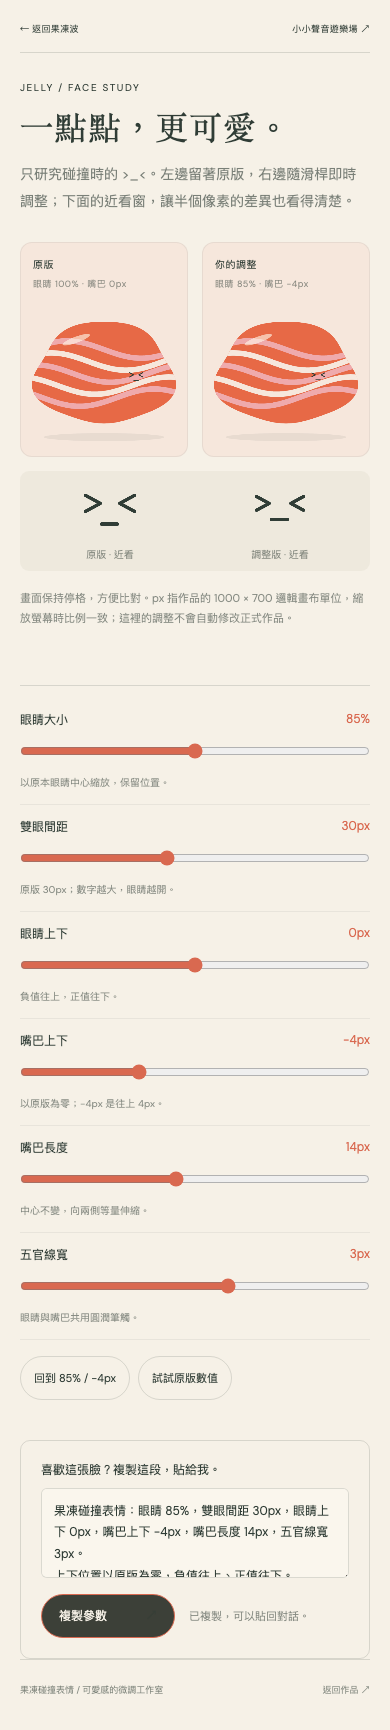
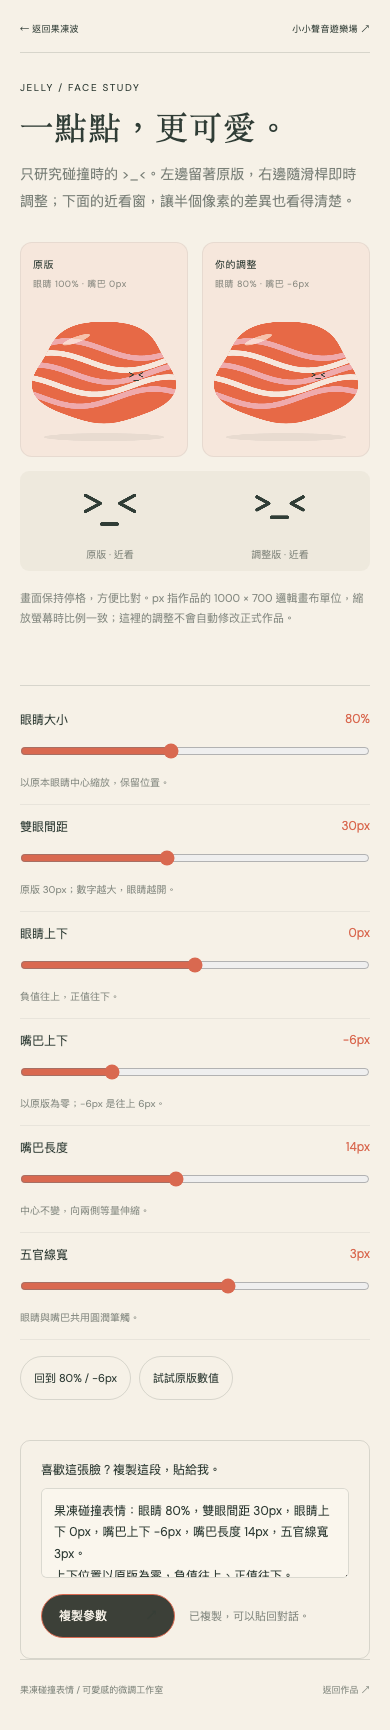
fix(sound): tune jelly collision eyes and mouth to chosen values

diff --git a/sound/jelly-face-lab.html b/sound/jelly-face-lab.html
@@ -9,16 +9,16 @@
 .gesture-tools .face-lab-link{display:inline-flex;align-items:center;min-height:44px;padding:10px 17px;border:1px solid var(--line);border-radius:30px;font-size:12px}.face-lab-link:hover{background:#303d3609}
 
 .lab{max-width:1220px}.intro{margin:42px 0 28px}.intro h1{margin:12px 0}.intro p{max-width:650px;line-height:1.9;color:#303d36a0}.lab-grid{display:grid;grid-template-columns:minmax(0,1fr) 300px;gap:32px;align-items:start}.portraits{display:grid;grid-template-columns:1fr 1fr;gap:14px}.portrait{margin:0;background:#f6e7dc;border:1px solid #303d3612;border-radius:12px;overflow:hidden}.portrait figcaption{padding:18px 20px 0;display:flex;justify-content:space-between;gap:10px;font-size:11px;letter-spacing:.05em}.portrait canvas{width:100%;height:auto;aspect-ratio:1/1}.portrait small{font-size:10px;opacity:.55}.zoom{background:#eee9dd;border-radius:9px;margin-top:14px;display:grid;grid-template-columns:1fr 1fr;gap:14px;padding:14px}.zoom canvas{height:auto;width:100%;aspect-ratio:56/23}.zoom p{text-align:center;font-size:10px;margin:0;color:#303d3690}.controls{border-top:1px solid var(--line);padding-top:12px}.control{padding:13px 0;border-bottom:1px solid #303d3612}.control label{display:flex;justify-content:space-between;gap:10px;font-size:12px}.control output{font-variant-numeric:tabular-nums;color:#d96950}.control input{width:100%;accent-color:#d96950;min-height:34px;margin:6px 0 0}.control small{font-size:10px;line-height:1.6;color:#303d3690}.presets{display:flex;flex-wrap:wrap;gap:8px;margin:16px 0}.presets button{font-size:11px;padding:8px 13px}.values{margin:24px 0 0;padding:20px;border:1px solid var(--line);border-radius:10px}.values label{display:block;font-size:12px;margin-bottom:10px}.values textarea{width:100%;min-height:90px;resize:vertical;background:#faf6ed;border:1px solid var(--line);border-radius:6px;color:var(--ink);padding:12px;font:12px/1.8 DM,"PingFang TC",sans-serif}.copy-row{display:flex;align-items:center;gap:14px;margin-top:12px}.copy-row span{font-size:11px;color:#303d3690}.lab-note{font-size:11px;line-height:1.8;color:#303d3690;margin:18px 0 24px}@media(max-width:850px){.lab-grid{grid-template-columns:1fr}.controls{display:grid;grid-template-columns:1fr 1fr;gap:0 20px}.presets{grid-column:1/-1}.intro{margin-top:28px}.portrait figcaption{padding:14px 12px 0;font-size:10px}.portrait small{font-size:9px}.zoom{padding:10px;gap:10px}}@media(max-width:420px){.controls{grid-template-columns:1fr}.portrait figcaption{display:block}.portrait small{display:block;margin-top:6px}.intro h1{font-size:33px}}
-</style></head><body><div class="shell lab"><header class="mast"><a href="jelly-wave.html">← 返回果凍波</a><a href="index.html">小小聲音遊樂場 ↗</a></header><main><div class="intro"><div class="eyebrow">JELLY / FACE STUDY</div><h1>一點點，更可愛。</h1><p>只研究碰撞時的 &gt;_&lt;。左邊留著原版，右邊隨滑桿即時調整；下面的近看窗，讓半個像素的差異也看得清楚。</p></div><div class="lab-grid"><section aria-label="表情比較"><div class="portraits"><figure class="portrait"><figcaption>原版 <small>眼睛 100% · 嘴巴 0px</small></figcaption><canvas id="before" width="560" height="560" aria-label="原版碰撞表情"></canvas></figure><figure class="portrait"><figcaption>你的調整 <small id="preview-label">眼睛 85% · 嘴巴 −4px</small></figcaption><canvas id="after" width="560" height="560" aria-label="調整後的碰撞表情"></canvas></figure></div><div class="zoom"><div><canvas id="before-detail" width="560" height="230" aria-label="原版五官近看"></canvas><p>原版 · 近看</p></div><div><canvas id="after-detail" width="560" height="230" aria-label="調整後五官近看"></canvas><p>調整版 · 近看</p></div></div><p class="lab-note">畫面保持停格，方便比對。px 指作品的 1000 × 700 邏輯畫布單位，縮放螢幕時比例一致；這裡的調整不會自動修改正式作品。</p></section><section class="controls" aria-label="五官參數">
-<div class="control"><label for="eyeScale">眼睛大小 <output id="eyeScale-value"></output></label><input id="eyeScale" type="range" min="50" max="120" step="1" value="85"><small>以原本眼睛中心縮放，保留位置。</small></div>
+</style></head><body><div class="shell lab"><header class="mast"><a href="jelly-wave.html">← 返回果凍波</a><a href="index.html">小小聲音遊樂場 ↗</a></header><main><div class="intro"><div class="eyebrow">JELLY / FACE STUDY</div><h1>一點點，更可愛。</h1><p>只研究碰撞時的 &gt;_&lt;。左邊留著原版，右邊隨滑桿即時調整；下面的近看窗，讓半個像素的差異也看得清楚。</p></div><div class="lab-grid"><section aria-label="表情比較"><div class="portraits"><figure class="portrait"><figcaption>原版 <small>眼睛 100% · 嘴巴 0px</small></figcaption><canvas id="before" width="560" height="560" aria-label="原版碰撞表情"></canvas></figure><figure class="portrait"><figcaption>你的調整 <small id="preview-label">眼睛 80% · 嘴巴 −6px</small></figcaption><canvas id="after" width="560" height="560" aria-label="調整後的碰撞表情"></canvas></figure></div><div class="zoom"><div><canvas id="before-detail" width="560" height="230" aria-label="原版五官近看"></canvas><p>原版 · 近看</p></div><div><canvas id="after-detail" width="560" height="230" aria-label="調整後五官近看"></canvas><p>調整版 · 近看</p></div></div><p class="lab-note">畫面保持停格，方便比對。px 指作品的 1000 × 700 邏輯畫布單位，縮放螢幕時比例一致；這裡的調整不會自動修改正式作品。</p></section><section class="controls" aria-label="五官參數">
+<div class="control"><label for="eyeScale">眼睛大小 <output id="eyeScale-value"></output></label><input id="eyeScale" type="range" min="50" max="120" step="1" value="80"><small>以原本眼睛中心縮放，保留位置。</small></div>
 <div class="control"><label for="eyeGap">雙眼間距 <output id="eyeGap-value"></output></label><input id="eyeGap" type="range" min="20" max="44" step="0.5" value="30"><small>原版 30px；數字越大，眼睛越開。</small></div>
 <div class="control"><label for="eyeY">眼睛上下 <output id="eyeY-value"></output></label><input id="eyeY" type="range" min="-10" max="10" step="0.5" value="0"><small>負值往上，正值往下。</small></div>
-<div class="control"><label for="mouthY">嘴巴上下 <output id="mouthY-value"></output></label><input id="mouthY" type="range" min="-12" max="12" step="0.5" value="-4"><small>以原版為零；−4px 是往上 4px。</small></div>
+<div class="control"><label for="mouthY">嘴巴上下 <output id="mouthY-value"></output></label><input id="mouthY" type="range" min="-12" max="12" step="0.5" value="-6"><small>以原版為零；−6px 是往上 6px。</small></div>
 <div class="control"><label for="mouthWidth">嘴巴長度 <output id="mouthWidth-value"></output></label><input id="mouthWidth" type="range" min="6" max="24" step="0.5" value="14"><small>中心不變，向兩側等量伸縮。</small></div>
 <div class="control"><label for="strokeWidth">五官線寬 <output id="strokeWidth-value"></output></label><input id="strokeWidth" type="range" min="1.5" max="4" step="0.1" value="3"><small>眼睛與嘴巴共用圓潤筆觸。</small></div>
-<div class="presets"><button id="reset">回到 85% / −4px</button><button id="original">試試原版數值</button></div></section></div><section class="values"><label for="values">喜歡這張臉？複製這段，貼給我。</label><textarea id="values" readonly spellcheck="false"></textarea><div class="copy-row"><button id="copy" class="primary">複製參數 <span>↗</span></button><span id="copy-status" role="status">調整完成後再複製。</span></div></section></main><footer><span>果凍碰撞表情 / 可愛感的微調工作室</span><a href="jelly-wave.html">返回作品 ↗</a></footer></div><script>
+<div class="presets"><button id="reset">回到 80% / −6px</button><button id="original">試試原版數值</button></div></section></div><section class="values"><label for="values">喜歡這張臉？複製這段，貼給我。</label><textarea id="values" readonly spellcheck="false"></textarea><div class="copy-row"><button id="copy" class="primary">複製參數 <span>↗</span></button><span id="copy-status" role="status">調整完成後再複製。</span></div></section></main><footer><span>果凍碰撞表情 / 可愛感的微調工作室</span><a href="jelly-wave.html">返回作品 ↗</a></footer></div><script>
 // Eye anchors retain their original centres; size changes around those anchors.
-function drawJellyCollisionFace(ctx,{eyeScale=.85,eyeGap=30,eyeY=0,mouthY=-4,mouthWidth=14,strokeWidth=3}={}){
+function drawJellyCollisionFace(ctx,{eyeScale=.80,eyeGap=30,eyeY=0,mouthY=-6,mouthWidth=14,strokeWidth=3}={}){
  ctx.save();ctx.strokeStyle='#303d36';ctx.lineWidth=strokeWidth;ctx.lineCap='round';ctx.lineJoin='round';
  const left=104.5-eyeGap/2,right=104.5+eyeGap/2;
  for(const [cx,direction] of [[left,1],[right,-1]]){
@@ -29,7 +29,7 @@ function drawJellyCollisionFace(ctx,{eyeScale=.85,eyeGap=30,eyeY=0,mouthY=-4,mou
  ctx.beginPath();ctx.moveTo(104-mouthWidth/2,22+mouthY);ctx.lineTo(104+mouthWidth/2,22+mouthY);ctx.stroke();ctx.restore();
 }
 
-(()=>{'use strict';const defaults={eyeScale:85,eyeGap:30,eyeY:0,mouthY:-4,mouthWidth:14,strokeWidth:3};const original={...defaults,eyeScale:100,mouthY:0};const ids=Object.keys(defaults);const values=document.querySelector('#values');
+(()=>{'use strict';const defaults={eyeScale:80,eyeGap:30,eyeY:0,mouthY:-6,mouthWidth:14,strokeWidth:3};const original={...defaults,eyeScale:100,mouthY:0};const ids=Object.keys(defaults);const values=document.querySelector('#values');
 function get(){return Object.fromEntries(ids.map(id=>[id,+document.getElementById(id).value]));}
 function face(ctx,p){drawJellyCollisionFace(ctx,{...p,eyeScale:p.eyeScale/100});}
 function draw(canvas,p,detail=false){const ctx=canvas.getContext('2d');ctx.clearRect(0,0,canvas.width,canvas.height);if(detail){ctx.save();ctx.translate(280,110);ctx.scale(4,4);ctx.translate(-104.5,-12);face(ctx,p);ctx.restore();return;}ctx.save();ctx.translate(280,282);ctx.scale(1.04,1.04);ctx.fillStyle='#303d3612';ctx.beginPath();ctx.ellipse(0,206,195,13,0,0,Math.PI*2);ctx.fill();const path=new Path2D();for(let i=0;i<=160;i++){const a=i/160*Math.PI*2,r=1+.055*Math.sin(3*a)+.035*Math.sin(5*a),x=Math.cos(a)*225*r,y=Math.sin(a)*165*r;i?path.lineTo(x,y):path.moveTo(x,y);}path.closePath();ctx.fillStyle='#e76946';ctx.fill(path);ctx.save();ctx.clip(path);for(let k=0;k<5;k++){ctx.beginPath();for(let i=0;i<=80;i++){const x=-280+i*7,y=(k-2)*39+Math.sin(x*.013+k*.65)*28;i?ctx.lineTo(x,y):ctx.moveTo(x,y);}ctx.strokeStyle=k%2?'#f6e7dc':'#efaaac';ctx.lineWidth=18;ctx.stroke();}ctx.restore();ctx.fillStyle='#fff5e7a0';ctx.beginPath();ctx.ellipse(-90,-110,47,10,-.35,0,Math.PI*2);ctx.fill();face(ctx,p);ctx.restore();}

diff --git a/sound/tools/jelly-face-lab.template.html b/sound/tools/jelly-face-lab.template.html
@@ -1,16 +1,16 @@
 <!doctype html><html lang="zh-Hant"><head><meta charset="utf-8"><meta name="viewport" content="width=device-width,initial-scale=1"><link rel="icon" href="data:,"><title>果凍表情工作室 — 小小聲音遊樂場</title><style>
 __BASE_CSS__
 .lab{max-width:1220px}.intro{margin:42px 0 28px}.intro h1{margin:12px 0}.intro p{max-width:650px;line-height:1.9;color:#303d36a0}.lab-grid{display:grid;grid-template-columns:minmax(0,1fr) 300px;gap:32px;align-items:start}.portraits{display:grid;grid-template-columns:1fr 1fr;gap:14px}.portrait{margin:0;background:#f6e7dc;border:1px solid #303d3612;border-radius:12px;overflow:hidden}.portrait figcaption{padding:18px 20px 0;display:flex;justify-content:space-between;gap:10px;font-size:11px;letter-spacing:.05em}.portrait canvas{width:100%;height:auto;aspect-ratio:1/1}.portrait small{font-size:10px;opacity:.55}.zoom{background:#eee9dd;border-radius:9px;margin-top:14px;display:grid;grid-template-columns:1fr 1fr;gap:14px;padding:14px}.zoom canvas{height:auto;width:100%;aspect-ratio:56/23}.zoom p{text-align:center;font-size:10px;margin:0;color:#303d3690}.controls{border-top:1px solid var(--line);padding-top:12px}.control{padding:13px 0;border-bottom:1px solid #303d3612}.control label{display:flex;justify-content:space-between;gap:10px;font-size:12px}.control output{font-variant-numeric:tabular-nums;color:#d96950}.control input{width:100%;accent-color:#d96950;min-height:34px;margin:6px 0 0}.control small{font-size:10px;line-height:1.6;color:#303d3690}.presets{display:flex;flex-wrap:wrap;gap:8px;margin:16px 0}.presets button{font-size:11px;padding:8px 13px}.values{margin:24px 0 0;padding:20px;border:1px solid var(--line);border-radius:10px}.values label{display:block;font-size:12px;margin-bottom:10px}.values textarea{width:100%;min-height:90px;resize:vertical;background:#faf6ed;border:1px solid var(--line);border-radius:6px;color:var(--ink);padding:12px;font:12px/1.8 DM,"PingFang TC",sans-serif}.copy-row{display:flex;align-items:center;gap:14px;margin-top:12px}.copy-row span{font-size:11px;color:#303d3690}.lab-note{font-size:11px;line-height:1.8;color:#303d3690;margin:18px 0 24px}@media(max-width:850px){.lab-grid{grid-template-columns:1fr}.controls{display:grid;grid-template-columns:1fr 1fr;gap:0 20px}.presets{grid-column:1/-1}.intro{margin-top:28px}.portrait figcaption{padding:14px 12px 0;font-size:10px}.portrait small{font-size:9px}.zoom{padding:10px;gap:10px}}@media(max-width:420px){.controls{grid-template-columns:1fr}.portrait figcaption{display:block}.portrait small{display:block;margin-top:6px}.intro h1{font-size:33px}}
-</style></head><body><div class="shell lab"><header class="mast"><a href="jelly-wave.html">← 返回果凍波</a><a href="index.html">小小聲音遊樂場 ↗</a></header><main><div class="intro"><div class="eyebrow">JELLY / FACE STUDY</div><h1>一點點，更可愛。</h1><p>只研究碰撞時的 &gt;_&lt;。左邊留著原版，右邊隨滑桿即時調整；下面的近看窗，讓半個像素的差異也看得清楚。</p></div><div class="lab-grid"><section aria-label="表情比較"><div class="portraits"><figure class="portrait"><figcaption>原版 <small>眼睛 100% · 嘴巴 0px</small></figcaption><canvas id="before" width="560" height="560" aria-label="原版碰撞表情"></canvas></figure><figure class="portrait"><figcaption>你的調整 <small id="preview-label">眼睛 85% · 嘴巴 −4px</small></figcaption><canvas id="after" width="560" height="560" aria-label="調整後的碰撞表情"></canvas></figure></div><div class="zoom"><div><canvas id="before-detail" width="560" height="230" aria-label="原版五官近看"></canvas><p>原版 · 近看</p></div><div><canvas id="after-detail" width="560" height="230" aria-label="調整後五官近看"></canvas><p>調整版 · 近看</p></div></div><p class="lab-note">畫面保持停格，方便比對。px 指作品的 1000 × 700 邏輯畫布單位，縮放螢幕時比例一致；這裡的調整不會自動修改正式作品。</p></section><section class="controls" aria-label="五官參數">
-<div class="control"><label for="eyeScale">眼睛大小 <output id="eyeScale-value"></output></label><input id="eyeScale" type="range" min="50" max="120" step="1" value="85"><small>以原本眼睛中心縮放，保留位置。</small></div>
+</style></head><body><div class="shell lab"><header class="mast"><a href="jelly-wave.html">← 返回果凍波</a><a href="index.html">小小聲音遊樂場 ↗</a></header><main><div class="intro"><div class="eyebrow">JELLY / FACE STUDY</div><h1>一點點，更可愛。</h1><p>只研究碰撞時的 &gt;_&lt;。左邊留著原版，右邊隨滑桿即時調整；下面的近看窗，讓半個像素的差異也看得清楚。</p></div><div class="lab-grid"><section aria-label="表情比較"><div class="portraits"><figure class="portrait"><figcaption>原版 <small>眼睛 100% · 嘴巴 0px</small></figcaption><canvas id="before" width="560" height="560" aria-label="原版碰撞表情"></canvas></figure><figure class="portrait"><figcaption>你的調整 <small id="preview-label">眼睛 80% · 嘴巴 −6px</small></figcaption><canvas id="after" width="560" height="560" aria-label="調整後的碰撞表情"></canvas></figure></div><div class="zoom"><div><canvas id="before-detail" width="560" height="230" aria-label="原版五官近看"></canvas><p>原版 · 近看</p></div><div><canvas id="after-detail" width="560" height="230" aria-label="調整後五官近看"></canvas><p>調整版 · 近看</p></div></div><p class="lab-note">畫面保持停格，方便比對。px 指作品的 1000 × 700 邏輯畫布單位，縮放螢幕時比例一致；這裡的調整不會自動修改正式作品。</p></section><section class="controls" aria-label="五官參數">
+<div class="control"><label for="eyeScale">眼睛大小 <output id="eyeScale-value"></output></label><input id="eyeScale" type="range" min="50" max="120" step="1" value="80"><small>以原本眼睛中心縮放，保留位置。</small></div>
 <div class="control"><label for="eyeGap">雙眼間距 <output id="eyeGap-value"></output></label><input id="eyeGap" type="range" min="20" max="44" step="0.5" value="30"><small>原版 30px；數字越大，眼睛越開。</small></div>
 <div class="control"><label for="eyeY">眼睛上下 <output id="eyeY-value"></output></label><input id="eyeY" type="range" min="-10" max="10" step="0.5" value="0"><small>負值往上，正值往下。</small></div>
-<div class="control"><label for="mouthY">嘴巴上下 <output id="mouthY-value"></output></label><input id="mouthY" type="range" min="-12" max="12" step="0.5" value="-4"><small>以原版為零；−4px 是往上 4px。</small></div>
+<div class="control"><label for="mouthY">嘴巴上下 <output id="mouthY-value"></output></label><input id="mouthY" type="range" min="-12" max="12" step="0.5" value="-6"><small>以原版為零；−6px 是往上 6px。</small></div>
 <div class="control"><label for="mouthWidth">嘴巴長度 <output id="mouthWidth-value"></output></label><input id="mouthWidth" type="range" min="6" max="24" step="0.5" value="14"><small>中心不變，向兩側等量伸縮。</small></div>
 <div class="control"><label for="strokeWidth">五官線寬 <output id="strokeWidth-value"></output></label><input id="strokeWidth" type="range" min="1.5" max="4" step="0.1" value="3"><small>眼睛與嘴巴共用圓潤筆觸。</small></div>
-<div class="presets"><button id="reset">回到 85% / −4px</button><button id="original">試試原版數值</button></div></section></div><section class="values"><label for="values">喜歡這張臉？複製這段，貼給我。</label><textarea id="values" readonly spellcheck="false"></textarea><div class="copy-row"><button id="copy" class="primary">複製參數 <span>↗</span></button><span id="copy-status" role="status">調整完成後再複製。</span></div></section></main><footer><span>果凍碰撞表情 / 可愛感的微調工作室</span><a href="jelly-wave.html">返回作品 ↗</a></footer></div><script>
+<div class="presets"><button id="reset">回到 80% / −6px</button><button id="original">試試原版數值</button></div></section></div><section class="values"><label for="values">喜歡這張臉？複製這段，貼給我。</label><textarea id="values" readonly spellcheck="false"></textarea><div class="copy-row"><button id="copy" class="primary">複製參數 <span>↗</span></button><span id="copy-status" role="status">調整完成後再複製。</span></div></section></main><footer><span>果凍碰撞表情 / 可愛感的微調工作室</span><a href="jelly-wave.html">返回作品 ↗</a></footer></div><script>
 __FACE_RENDERER__
-(()=>{'use strict';const defaults={eyeScale:85,eyeGap:30,eyeY:0,mouthY:-4,mouthWidth:14,strokeWidth:3};const original={...defaults,eyeScale:100,mouthY:0};const ids=Object.keys(defaults);const values=document.querySelector('#values');
+(()=>{'use strict';const defaults={eyeScale:80,eyeGap:30,eyeY:0,mouthY:-6,mouthWidth:14,strokeWidth:3};const original={...defaults,eyeScale:100,mouthY:0};const ids=Object.keys(defaults);const values=document.querySelector('#values');
 function get(){return Object.fromEntries(ids.map(id=>[id,+document.getElementById(id).value]));}
 function face(ctx,p){drawJellyCollisionFace(ctx,{...p,eyeScale:p.eyeScale/100});}
 function draw(canvas,p,detail=false){const ctx=canvas.getContext('2d');ctx.clearRect(0,0,canvas.width,canvas.height);if(detail){ctx.save();ctx.translate(280,110);ctx.scale(4,4);ctx.translate(-104.5,-12);face(ctx,p);ctx.restore();return;}ctx.save();ctx.translate(280,282);ctx.scale(1.04,1.04);ctx.fillStyle='#303d3612';ctx.beginPath();ctx.ellipse(0,206,195,13,0,0,Math.PI*2);ctx.fill();const path=new Path2D();for(let i=0;i<=160;i++){const a=i/160*Math.PI*2,r=1+.055*Math.sin(3*a)+.035*Math.sin(5*a),x=Math.cos(a)*225*r,y=Math.sin(a)*165*r;i?path.lineTo(x,y):path.moveTo(x,y);}path.closePath();ctx.fillStyle='#e76946';ctx.fill(path);ctx.save();ctx.clip(path);for(let k=0;k<5;k++){ctx.beginPath();for(let i=0;i<=80;i++){const x=-280+i*7,y=(k-2)*39+Math.sin(x*.013+k*.65)*28;i?ctx.lineTo(x,y):ctx.moveTo(x,y);}ctx.strokeStyle=k%2?'#f6e7dc':'#efaaac';ctx.lineWidth=18;ctx.stroke();}ctx.restore();ctx.fillStyle='#fff5e7a0';ctx.beginPath();ctx.ellipse(-90,-110,47,10,-.35,0,Math.PI*2);ctx.fill();face(ctx,p);ctx.restore();}

diff --git a/sound/jelly-wave.html b/sound/jelly-wave.html
@@ -111,7 +111,7 @@ addEventListener('pagehide',()=>{cancelAnimationFrame(raf);clearTimeout(feedback
 function boot(scene){sceneRef=scene;window.soundScene=scene;sceneRef.init?.();if(state.reduced)status.textContent='已依照減少動態偏好呈現停格；觸碰仍可改變畫面。';new ResizeObserver(resize).observe(canvas);resize();requestDraw();}
 
 // Eye anchors retain their original centres; size changes around those anchors.
-function drawJellyCollisionFace(ctx,{eyeScale=.85,eyeGap=30,eyeY=0,mouthY=-4,mouthWidth=14,strokeWidth=3}={}){
+function drawJellyCollisionFace(ctx,{eyeScale=.80,eyeGap=30,eyeY=0,mouthY=-6,mouthWidth=14,strokeWidth=3}={}){
  ctx.save();ctx.strokeStyle='#303d36';ctx.lineWidth=strokeWidth;ctx.lineCap='round';ctx.lineJoin='round';
  const left=104.5-eyeGap/2,right=104.5+eyeGap/2;
  for(const [cx,direction] of [[left,1],[right,-1]]){

diff --git a/sound/tools/jelly-face.js b/sound/tools/jelly-face.js
@@ -1,5 +1,5 @@
 // Eye anchors retain their original centres; size changes around those anchors.
-function drawJellyCollisionFace(ctx,{eyeScale=.85,eyeGap=30,eyeY=0,mouthY=-4,mouthWidth=14,strokeWidth=3}={}){
+function drawJellyCollisionFace(ctx,{eyeScale=.80,eyeGap=30,eyeY=0,mouthY=-6,mouthWidth=14,strokeWidth=3}={}){
  ctx.save();ctx.strokeStyle='#303d36';ctx.lineWidth=strokeWidth;ctx.lineCap='round';ctx.lineJoin='round';
  const left=104.5-eyeGap/2,right=104.5+eyeGap/2;
  for(const [cx,direction] of [[left,1],[right,-1]]){
